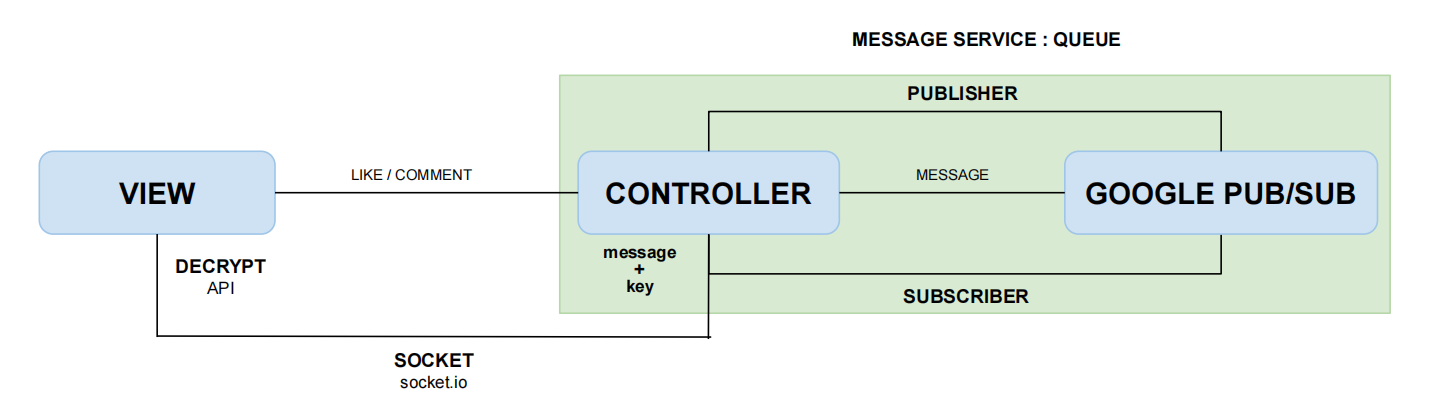
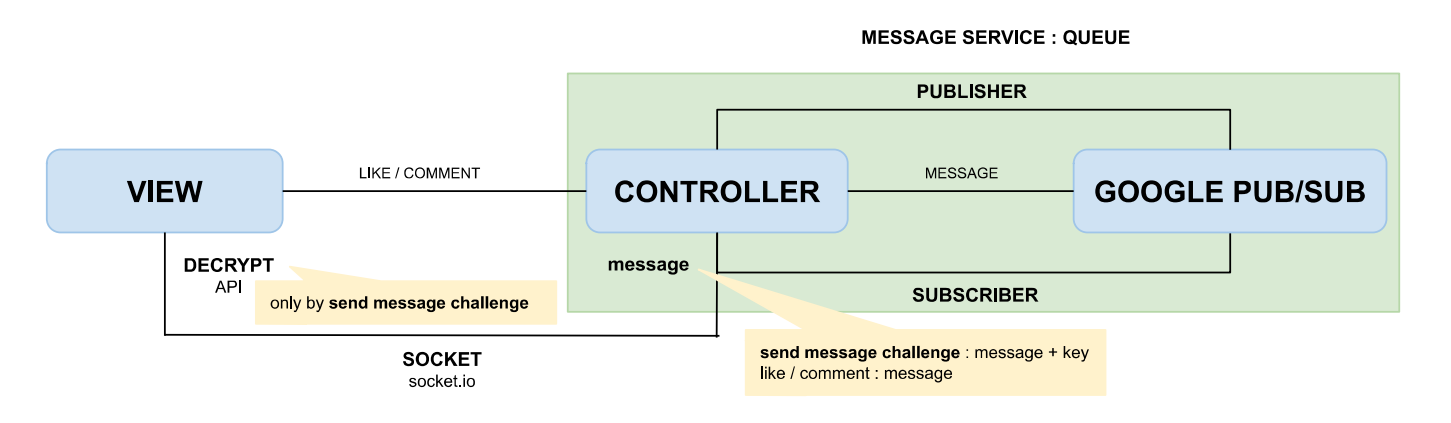
notification like / comment

diff --git a/backend/config/messageBroker.js b/backend/config/messageBroker.js
@@ -3,7 +3,10 @@ const pubsub = new PubSub();
 
 const publisher = async (data) => {
   try {
-    pubsub.topic(process.env.GOOGLE_PUBLISHER_MESSAGE, { key: process.env.GOOGLE_PUBLISHER_KEY }).publish(data);
+    pubsub.topic(process.env.GOOGLE_PUBLISHER_MESSAGE).publishMessage({
+     data: data,
+     attributes: { key: process.env.GOOGLE_PUBLISHER_KEY }
+   });
   } catch (err) {
     console.error(err.message);
     process.exit(1);
@@ -14,13 +17,17 @@ const subscriber = async (socket) => {
   try {
     pubsub.subscription(process.env.GOOGLE_SUBCRIBER_MESSAGE).on("message", (message) => {
       if (isJson(message.data)) {
-        if (!JSON.parse(message.data).message) return false;
-        pubsub.subscription(process.env.GOOGLE_SUBCRIBER_KEY).on("message", (msg) => {
-          socket.emit('notification', JSON.stringify({
-            message: JSON.parse(message.data).message,
-            key: JSON.parse(msg.data).key
-          }));
-        });
+        if (message.attributes.key === process.env.GOOGLE_PUBLISHER_KEY) {
+          socket.emit('notification', String.fromCharCode.apply(null, new Uint8Array(message.data)));
+        } else {
+          if (!JSON.parse(message.data).message) return false;
+          pubsub.subscription(process.env.GOOGLE_SUBCRIBER_KEY).on("message", (msg) => {
+            socket.emit('notification', JSON.stringify({
+              message: JSON.parse(message.data).message,
+              key: JSON.parse(msg.data).key
+            }));
+          });
+        }
       }
     });
   } catch (err) {

diff --git a/frontend/src/App.js b/frontend/src/App.js
@@ -34,11 +34,17 @@ const App = () => {
     // will get a 401 response from our API
     store.dispatch(loadUser());
     socket.on("notification", (notification) => {
-      sendDecrypt(JSON.parse(notification));
+      notification = JSON.parse(notification);
+      if (notification.content) {
+        store.dispatch(setAlert(notification.content, "success"));
+        store.dispatch({ type: ADD_NOTIFICATION, payload: notification });
+      } else {
+        apiDecrypt(notification);
+      }
     });
   }, []);
   
-  const sendDecrypt = async (data) => {
+  const apiDecrypt = async (data) => {
     if (!data.message) return false;
     await axios.post(
       `https://challenges.aqi.co.id/api/microservices/decrypt/${data.key}`,

diff --git a/backend/routes/api/posts.js b/backend/routes/api/posts.js
@@ -186,7 +186,7 @@ router.post(
       
       messageBroker.publisher(Buffer.from(JSON.stringify({
         author: user.name,
-        content: `${user.name} has comment your post`
+        content: `${user.name} has comment ${newComment.text} your post`
       })));
 
       res.json(post.comments);

diff --git a/README.md b/README.md
@@ -26,3 +26,6 @@ websocket http://localhost:8080
 
 flow google pub sub
 ![flow](./flow.png)
+
+notification
+![notification](./notification.png)
